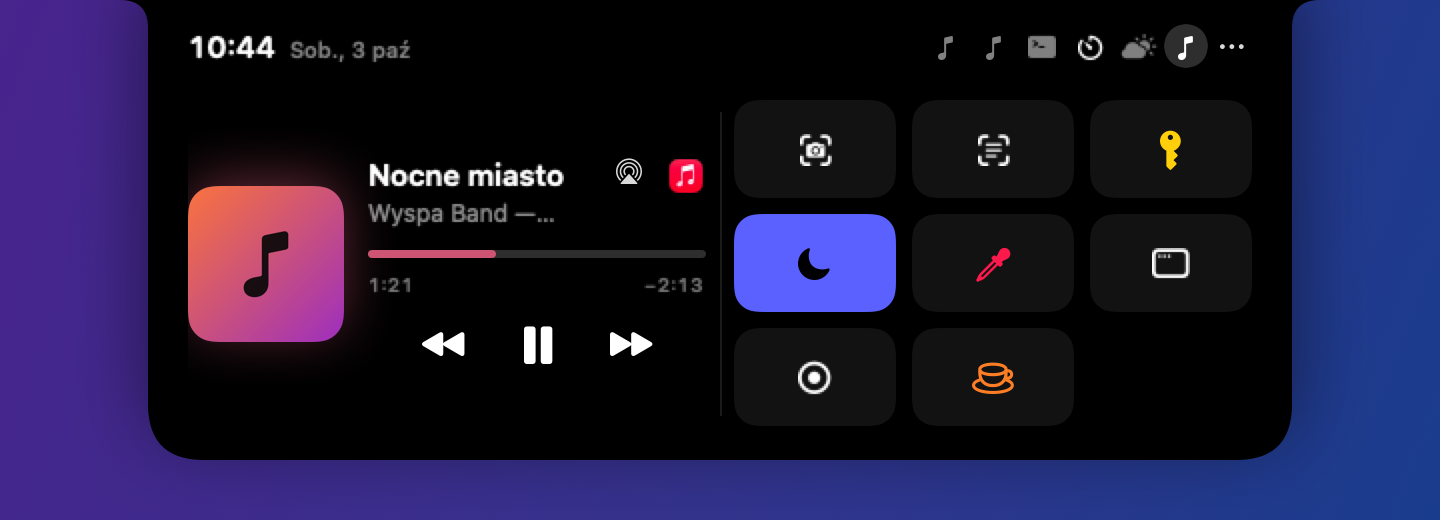
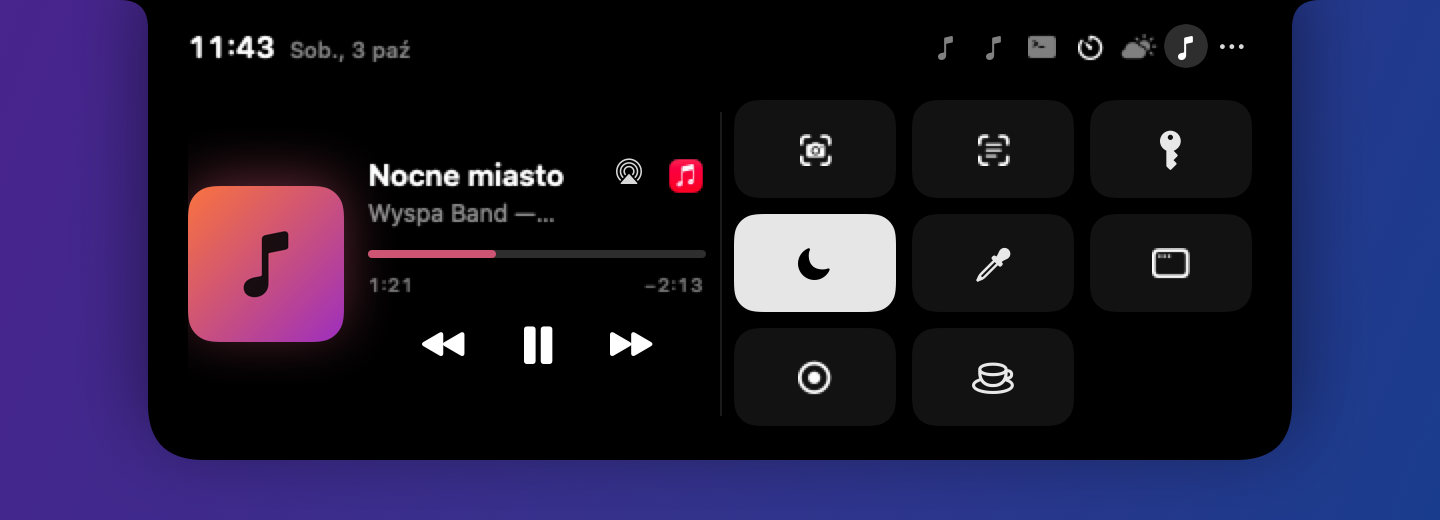
fix: szybkie akcje w stylu wyspy i bez animacji w kółko
Kafelki jednobarwne (biel na czerni), włączony stan to jasny kafelek z czarną ikoną
zamiast koloru akcji. Bez ciągłej animacji przy włączonym „Nie usypiaj”, nagrywaniu
i pracy Claude — animacja w toku zostaje tylko dla krótkich czynności. Nowe zrzuty.

Claude-Session: https://claude.ai/code/session_01FJMsysatB5QqQDV4814giK

diff --git a/Sources/Features/QuickActions/QuickActionsView.swift b/Sources/Features/QuickActions/QuickActionsView.swift
@@ -67,7 +67,7 @@ struct QuickActionsView: View {
 struct TileSpec {
     var symbol: String
     var title: String
-    var tint: Color
+    /// Włączony stan (tryb ciemny, nie usypiaj, nagrywanie) — jasny kafelek zamiast animacji w kółko.
     var isOn = false
     var tapEffect: TapEffect = .bounce
     var busyEffect: BusyEffect = .pulse
@@ -79,13 +79,15 @@ struct TileSpec {
         var isDarkMode = false
         var desktopIconsVisible = true
         var isKeepingAwake = false
+        var isRecording = false
         var isDone = false
     }
 
     @MainActor
     static func make(_ action: QuickActionsModule.Action, module: QuickActionsModule, compact: Bool) -> TileSpec {
         make(action, state: State(isDarkMode: module.isDarkMode, desktopIconsVisible: module.desktopIconsVisible,
-                                  isKeepingAwake: module.isKeepingAwake, isDone: module.confirmed.contains(action)),
+                                  isKeepingAwake: module.isKeepingAwake,
+                                  isRecording: module.busy.contains(.record), isDone: module.confirmed.contains(action)),
              compact: compact)
     }
 
@@ -94,34 +96,32 @@ struct TileSpec {
         switch action {
         case .capture:
             return TileSpec(symbol: done ? "checkmark.circle.fill" : "camera.viewfinder",
-                            title: compact ? "Zrzut" : "Zrzut na Półkę", tint: .blue)
+                            title: compact ? "Zrzut" : "Zrzut na Półkę")
         case .captureScreen:
-            return TileSpec(symbol: done ? "checkmark.circle.fill" : "macwindow", title: "Cały ekran", tint: .blue)
+            return TileSpec(symbol: done ? "checkmark.circle.fill" : "macwindow", title: "Cały ekran")
         case .captureText:
             return TileSpec(symbol: done ? "checkmark.circle.fill" : "text.viewfinder",
-                            title: compact ? "Tekst" : "Tekst ze zrzutu", tint: .green, busyEffect: .breathe)
+                            title: compact ? "Tekst" : "Tekst ze zrzutu", busyEffect: .breathe)
         case .record:
-            return TileSpec(symbol: done ? "checkmark.circle.fill" : "record.circle", title: "Nagrywanie", tint: .red,
-                            busyEffect: .breathe)
+            return TileSpec(symbol: done ? "checkmark.circle.fill" : state.isRecording ? "record.circle.fill" : "record.circle",
+                            title: "Nagrywanie", isOn: state.isRecording)
         case .pickColor:
-            return TileSpec(symbol: done ? "checkmark.circle.fill" : "eyedropper", title: compact ? "Pipeta" : "Pipeta koloru",
-                            tint: .pink, tapEffect: .wiggle)
+            return TileSpec(symbol: done ? "checkmark.circle.fill" : "eyedropper", title: compact ? "Pipeta" : "Pipeta koloru", tapEffect: .wiggle)
         case .password:
-            return TileSpec(symbol: done ? "checkmark.circle.fill" : "key.fill", title: "Hasło", tint: .yellow, tapEffect: .rotate)
+            return TileSpec(symbol: done ? "checkmark.circle.fill" : "key.fill", title: "Hasło", tapEffect: .rotate)
         case .darkMode:
             return TileSpec(symbol: state.isDarkMode ? "moon.fill" : "sun.max.fill",
-                            title: state.isDarkMode ? "Tryb ciemny" : "Tryb jasny", tint: .indigo, isOn: state.isDarkMode,
+                            title: state.isDarkMode ? "Tryb ciemny" : "Tryb jasny", isOn: state.isDarkMode,
                             hoverEffect: state.isDarkMode ? .bounce : .rotate)
         case .desktopIcons:
             return TileSpec(symbol: state.desktopIconsVisible ? "eye" : "eye.slash",
-                            title: state.desktopIconsVisible ? "Ukryj biurko" : "Pokaż biurko", tint: .teal,
+                            title: state.desktopIconsVisible ? "Ukryj biurko" : "Pokaż biurko",
                             isOn: !state.desktopIconsVisible)
         case .lock:
-            return TileSpec(symbol: done ? "lock.fill" : "lock.open.fill", title: compact ? "Blokada" : "Zablokuj ekran", tint: .gray)
+            return TileSpec(symbol: done ? "lock.fill" : "lock.open.fill", title: compact ? "Blokada" : "Zablokuj ekran")
         case .keepAwake:
             return TileSpec(symbol: state.isKeepingAwake ? "cup.and.heat.waves.fill" : "cup.and.saucer",
-                            title: state.isKeepingAwake ? "Nie usypia" : "Nie usypiaj", tint: .orange, isOn: state.isKeepingAwake,
-                            busyEffect: .variableColor)
+                            title: state.isKeepingAwake ? "Nie usypia" : "Nie usypiaj", isOn: state.isKeepingAwake)
         }
     }
 }
@@ -161,7 +161,7 @@ struct ActionTile: View {
     let spec: TileSpec
     let compact: Bool
     let tap: Int
-    /// Akcja w toku (zaznaczanie, rozpoznawanie, nagrywanie) albo stan włączony z animacją (para nad kubkiem).
+    /// Krótka akcja w toku (zaznaczanie obszaru, rozpoznawanie tekstu).
     let isBusy: Bool
     let action: () -> Void
     @State private var isHovered = false
@@ -174,7 +174,7 @@ struct ActionTile: View {
                 .frame(maxWidth: .infinity, maxHeight: .infinity)
                 .background(
                     RoundedRectangle(cornerRadius: 12, style: .continuous)
-                        .fill(spec.isOn ? spec.tint : .white.opacity(isHovered ? 0.14 : 0.07))
+                        .fill(spec.isOn ? .white.opacity(isHovered ? 1 : 0.9) : .white.opacity(isHovered ? 0.14 : 0.07))
                 )
         }
         .buttonStyle(IslandPressStyle())
@@ -208,11 +208,12 @@ struct ActionTile: View {
     private func icon(size: CGFloat) -> some View {
         Image(systemName: spec.symbol)
             .font(.system(size: size, weight: .semibold))
-            .foregroundStyle(spec.isOn ? .black : spec.tint)
+            .foregroundStyle(spec.isOn ? .black : .white.opacity(0.9))
             .symbolSwapTransition()
             .tapEffect(spec.tapEffect, value: tap)
             .tapEffect(spec.hoverEffect, value: hoverCount)
-            .busyEffect(spec.busyEffect, isActive: isBusy || (spec.isOn && spec.busyEffect == .variableColor))
+            // Animacja w toku tylko dla krótkich czynności (zaznaczanie, rozpoznawanie); stan włączony to jasny kafelek.
+            .busyEffect(spec.busyEffect, isActive: isBusy && !spec.isOn)
             .animation(.snappy, value: spec.symbol)
     }
 

diff --git a/Tests/WyspaQuickActionsTests/QuickActionsTests.swift b/Tests/WyspaQuickActionsTests/QuickActionsTests.swift
@@ -162,6 +162,16 @@ struct QuickActionsGridTests {
 @Suite("Animacje kafelków")
 @MainActor
 struct QuickActionsTileSpecTests {
+    @Test("Włączone stany to jasny kafelek, bez animacji w kółko")
+    func onStates() {
+        let on = TileSpec.State(isDarkMode: true, desktopIconsVisible: false, isKeepingAwake: true, isRecording: true)
+        for action in [QuickActionsModule.Action.darkMode, .desktopIcons, .keepAwake, .record] {
+            #expect(TileSpec.make(action, state: on, compact: false).isOn, "\(action)")
+        }
+        #expect(TileSpec.make(.record, state: on, compact: false).symbol == "record.circle.fill")
+        #expect(!TileSpec.make(.record, state: .init(), compact: false).isOn)
+    }
+
     @Test("Symbole i efekty w stanie spoczynku")
     func specs() throws {
         let defaults = try #require(UserDefaults(suiteName: "wyspa.quick.tiles.\(UUID().uuidString)"))
@@ -169,9 +179,9 @@ struct QuickActionsTileSpecTests {
                                                                requestExpand: {}))
         let spec = { (action: QuickActionsModule.Action) in TileSpec.make(action, module: module, compact: false) }
         #expect(spec(.lock).symbol == "lock.open.fill", "kłódka zatrzaskuje się dopiero po kliknięciu")
-        #expect(spec(.keepAwake).symbol == "cup.and.saucer" && spec(.keepAwake).busyEffect == .variableColor)
+        #expect(spec(.keepAwake).symbol == "cup.and.saucer" && !spec(.keepAwake).isOn)
         #expect(spec(.password).tapEffect == .rotate && spec(.pickColor).tapEffect == .wiggle)
-        #expect(spec(.record).busyEffect == .breathe && spec(.captureText).busyEffect == .breathe)
+        #expect(spec(.captureText).busyEffect == .breathe)
         #expect(["eye", "eye.slash"].contains(spec(.desktopIcons).symbol))
         #expect(QuickActionsModule.Action.allCases.allSatisfy { NSImage(systemSymbolName: spec($0).symbol, accessibilityDescription: nil) != nil },
                 "każdy symbol istnieje w systemie")

diff --git a/Sources/Features/ClaudeMonitor/ClaudeMonitorModule.swift b/Sources/Features/ClaudeMonitor/ClaudeMonitorModule.swift
@@ -152,7 +152,6 @@ public final class ClaudeMonitorModule: IslandModule {
             Image(systemName: "sparkle")
                 .font(.system(size: 13, weight: .semibold))
                 .foregroundStyle(.purple)
-                .symbolEffect(.pulse, options: .repeating)
         } trailing: {
             Text("\(working)").font(.system(size: 12, weight: .semibold, design: .rounded)).foregroundStyle(.purple)
         }

diff --git a/CLAUDE.md b/CLAUDE.md
@@ -217,7 +217,11 @@ przekreślenia), `tapEffect` (bounce / wiggle / rotate na zmianę licznika), `bu
 dopóki trwa) i `ToggleSymbol` (zmiana stanu w tym samym miejscu; przy pojawieniu się animuje tylko
 z `animatesAppearance`, np. mikrofon przez 1 s po przełączeniu). Lewe skrzydło wjeżdża z lewej (`SlideInFromLeading`)
 tylko dla nowej aktywności — `IslandView.shownActivityID` pomija ponowne pokazanie tej samej po zwinięciu wyspy. Wszystko wyłączone przy „Ogranicz ruch”. Szybkie akcje: `TileSpec.make` (symbol, efekty) + stan modułu
-`taps` / `busy` / `confirmed`; blokada ekranu czeka 400 ms na animację kłódki.
+`taps` / `busy` / `confirmed`; blokada ekranu czeka 400 ms na animację kłódki. Bez animacji w kółko dla stanów
+włączonych: włączony kafelek (tryb ciemny, ukryte biurko, nie usypiaj, nagrywanie) jest jasny z czarną ikoną,
+`busyEffect` tylko dla krótkich czynności (zaznaczanie, rozpoznawanie tekstu). Kafelki są jednobarwne (biel na czerni
+jak reszta wyspy); kolory zostają dla znaczenia (czerwony mikrofon, pomarańczowa prośba Claude, fioletowa praca Claude
+— bez pulsowania, pulsuje tylko prośba o zgodę).
 
 ## Mikrofon (moduł `WyspaMicrophone`)
 
